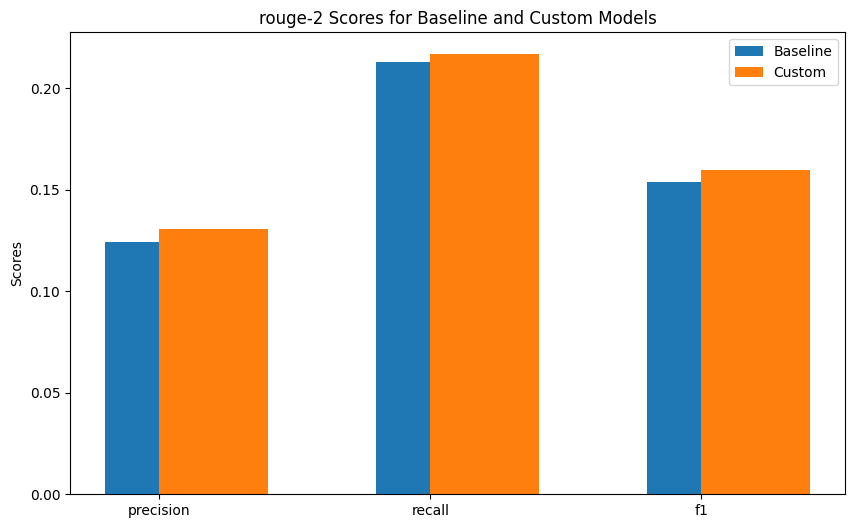
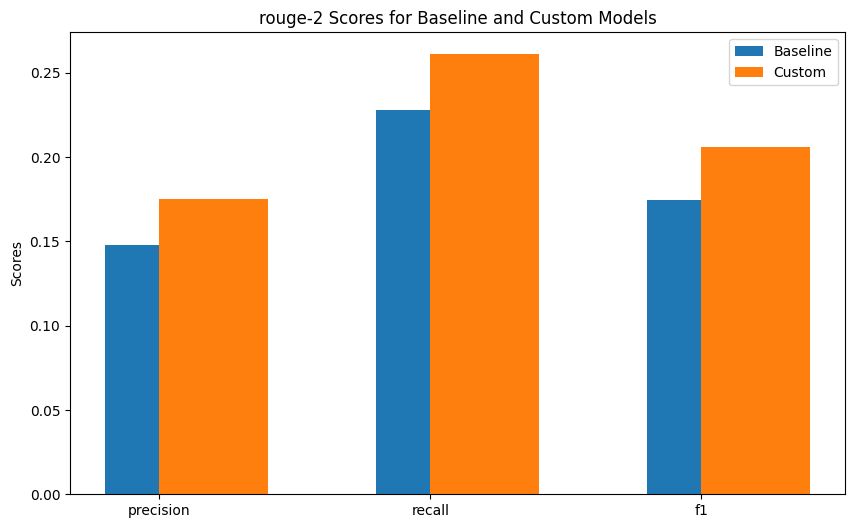
update eval script

diff --git a/model/evaluation/evaluation.py b/model/evaluation/evaluation.py
@@ -1,5 +1,6 @@
 import json
 import os
+import re
 
 import datasets
 from datasets import load_dataset
@@ -163,23 +164,50 @@ def evaluate_models(test_data, num_examples=100):
                     # check if the custom model's score is significantly better than the baseline (e.g., by more than 20%)
                     if ((c_val - b_val) > 0.20 * b_val):
                         print("\n" + "="*80)
+                        print("\n")
                         print(f"Significant improvement detected in {m_name} {s_name}:")
+                        print("\n")
                         print(f"Baseline: {b_val:.4f}")
+                        print("\n")
                         print(f"Custom: {c_val:.4f}")
+                        print("\n")
                         print(f"Example Index: {i}")
+                        print("\n")
+                        print("Article...")
+                        print("\n")
+                        print(example["article"])
+                        print("\n")
                         print(f"Reference Summary: {reference_summary}")
+                        print("\n")
                         print(f"Baseline Summary: {baseline_summary}")
+                        print("\n")
                         print(f"Custom Summary: {custom_summary}")
-                        print("="*80)
+                        print("\n")
 
-                    # to get anything from this would need to go through and lg parse each sentence in the reference summary,
-                    # do that for many outlier examples,
-                    # and then look for any patterns between the lg graphs for each example.
-                    # that in it of itself is a machine learning task
-                    # where essentially we are comparing features of graphs to find commonalities.
-                    #
-                    # unless, we can interface the DataCollator object to get the link info instead.
-                    #       wont't be fast enough. We would have to route this through the entire lg architecture
+                        """
+                        Quick LG Setup
+                        """
+                        def print_linkage(lkg):
+                            print(lkg.diagram())
+                        di = Dictionary('en')
+                        po = ParseOptions()
+                        po.linkage_limit = 1
+                        po.verbosity = 0
+                        print("="*80)
+                        
+                        from model.lg_parser.lg_parser import (split_sentence_spans)
+                        
+                        sentence_indices = split_sentence_spans(example["article"])
+
+                        for sentence_index in sentence_indices:
+                            try:
+                                print(example["article"][sentence_index[0]:sentence_index[1]])
+                                sent = Sentence(example["article"][sentence_index[0]:sentence_index[1]], di, po)
+                                linkages = sent.parse()
+                                for linkage in linkages:
+                                    print_linkage(linkage)
+                            except Exception:
+                                continue
 
             # accumulate
             for metric in metrics_to_track:
